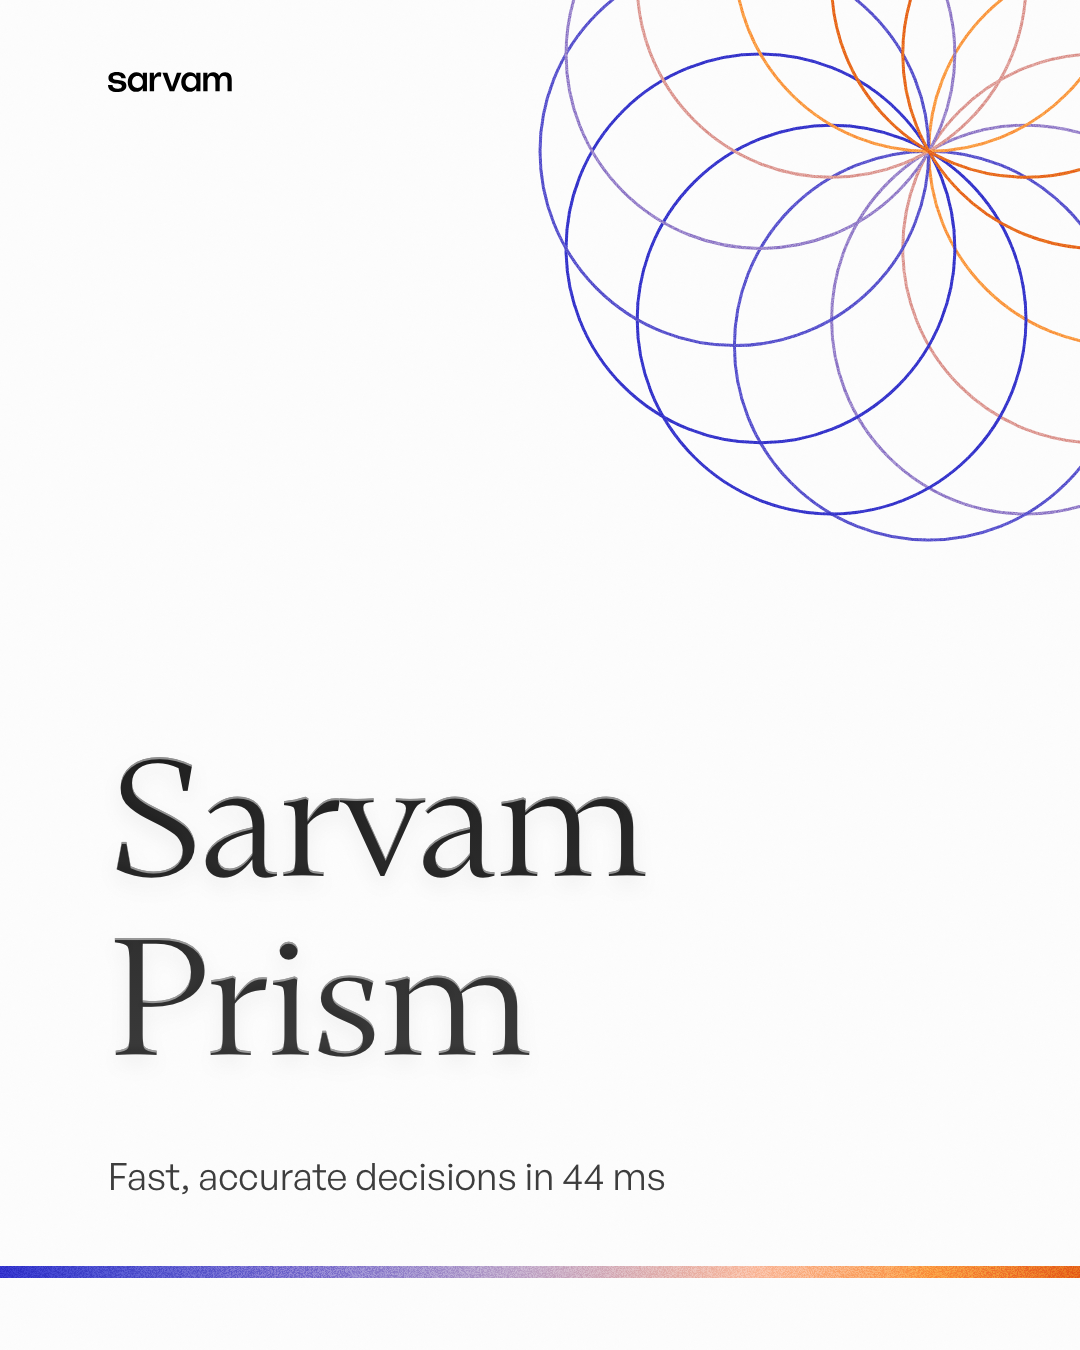
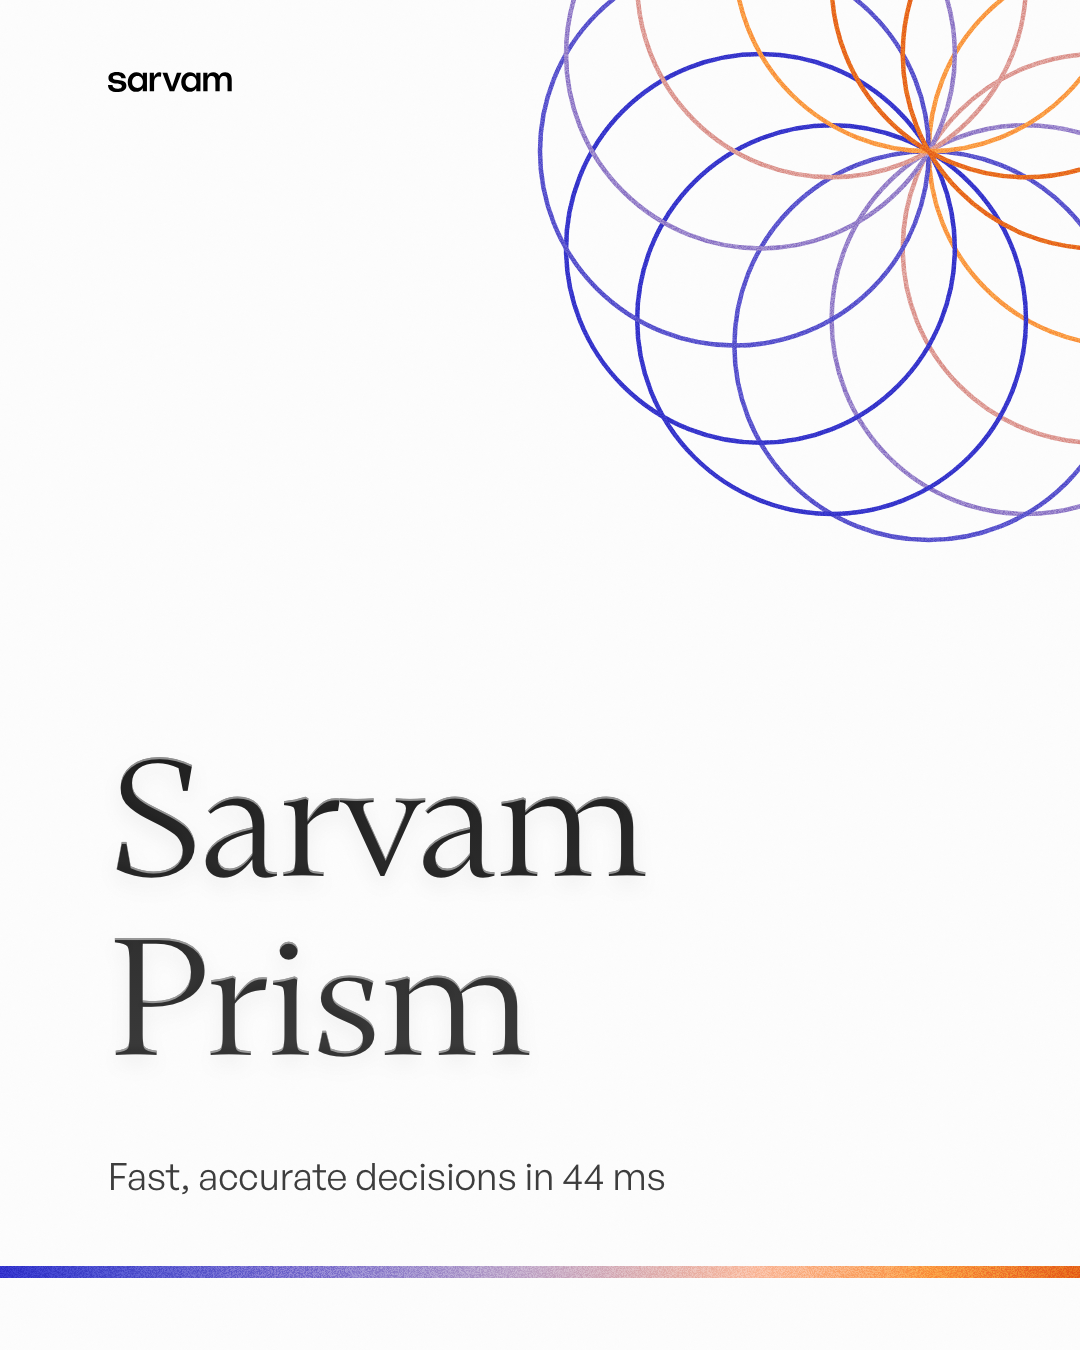
Spectrum rosettes: lens, orbits, rings added; thicker stroke (4.5px / 3.5px)

diff --git a/src/components/sarvam/composer.tsx b/src/components/sarvam/composer.tsx
@@ -31,7 +31,7 @@ export type BannerSpec = {
   logo?: "wordmark" | "logomark";  // logomark = the official lotus symbol, used alone (logo.md: never beside the wordmark)
   card?: "plan" | "research" | "review";   // product moment shown inside the device (split / stacked only); arch-window shows it through the arch
   icon?: EmblemIcon;               // emblem device: the one object that stands for the subject
-  rosette?: "circles" | "lobes";   // spectrum device: the corner rosette (circles = the logomark's own construction)
+  rosette?: "circles" | "lobes" | "lens" | "orbits" | "rings";   // spectrum device: the corner rosette (circles = the logomark's own construction)
 };
 /** Emblem icons: Nucleo Core outline only (components.md §3). One object per idea. */
 export const EMBLEM_ICONS = {
@@ -324,29 +324,47 @@ function spectrumAt(t: number) {
 }
 /** Spectrum line: one thin, hard-edged strip of the brand spectrum across a calm canvas, like light through a prism.
  *  The top-right corner holds a rosette built the way Sarvam's logomark is built: ONE element repeated around a centre
- *  (identical shape, identical line: 3px Meta / 2.5px LinkedIn, even rotation), each copy one hue of the spectrum, cropped by the corner. */
+ *  (identical shape, identical line: 4.5px Meta / 3.5px LinkedIn, even rotation), each copy one hue of the spectrum, cropped by the corner. */
+type Rosette = NonNullable<BannerSpec["rosette"]>;
 function spectrumDevice(spec: BannerSpec, F: Frame, _id: string, land: boolean): DeviceOut {
   const h = land ? 8 : 12, y = F.H - F.M - h;
   const kind = spec.rosette ?? "circles";
   const R = land ? F.H * 0.38 : F.W * 0.36;                     // rosette radius (the whole rosette spans 2R)
   const cx = F.W - (land ? F.H * 0.16 : F.W * 0.14), cy = land ? F.H * 0.16 : F.W * 0.14;
-  const n = 12;
+  const ROSETTE_N: Record<Rosette, number> = { circles: 12, lobes: 12, lens: 12, orbits: 6, rings: 6 };
+  const n = ROSETTE_N[kind];
   const els = Array.from({ length: n }, (_, i) => {
     // hue by direction, mirror-symmetric: copies facing into the canvas (lower-left) are indigo, copies facing the corner (upper-right) orange
-    const a = (360 / n) * i, c = spectrumAt((1 - Math.cos(((a - 135) * Math.PI) / 180)) / 2);
-    if (kind === "circles") {
-      // the logomark's construction: equal circles whose centres sit on a ring, each passing through the centre
-      const r = R / 2, rad = (a * Math.PI) / 180;
-      return <circle key={i} cx={cx + Math.cos(rad) * r} cy={cy + Math.sin(rad) * r} r={r} stroke={c} />;
+    const a = (360 / n) * i, rad = (a * Math.PI) / 180;
+    const c = spectrumAt(kind === "rings" ? i / (n - 1) : (1 - Math.cos(((a - 135) * Math.PI) / 180)) / 2);
+    switch (kind) {
+      case "circles": {
+        // the logomark's construction: equal circles whose centres sit on a ring, each passing through the centre
+        const r = R / 2;
+        return <circle key={i} cx={cx + Math.cos(rad) * r} cy={cy + Math.sin(rad) * r} r={r} stroke={c} />;
+      }
+      case "lens": {
+        // vesica petals: equal lenses from the centre outward (a lotus drawn with two arcs each)
+        const L = R, w = R * 0.26;
+        return <path key={i} d={`M0 0 Q${w} ${-L / 2} 0 ${-L} Q${-w} ${-L / 2} 0 0 Z`} transform={`translate(${cx} ${cy}) rotate(${a})`} stroke={c} />;
+      }
+      case "orbits":
+        // equal ellipses sharing the centre, each turned by 180/n: a calm spirograph
+        return <ellipse key={i} cx={cx} cy={cy} rx={R} ry={R * 0.36} transform={`rotate(${(180 / n) * i} ${cx} ${cy})`} stroke={c} />;
+      case "rings":
+        // concentric circles at an even step, hue stepping outward through the spectrum
+        return <circle key={i} cx={cx} cy={cy} r={R * (0.28 + (0.72 * i) / (n - 1))} stroke={c} />;
+      default: {
+        // lobes: equal rounded squares set out on a ring and turned to face the centre (the logomark's petals)
+        const sd = R * 0.62, px = cx + Math.cos(rad) * R * 0.5, py = cy + Math.sin(rad) * R * 0.5;
+        return <rect key={i} x={px - sd / 2} y={py - sd / 2} width={sd} height={sd} rx={sd * 0.3} transform={`rotate(${a + 45} ${px} ${py})`} stroke={c} />;
+      }
     }
-    // lobes: equal rounded squares set out on a ring and turned to face the centre (the logomark's petals)
-    const sd = R * 0.62, rad = (a * Math.PI) / 180, px = cx + Math.cos(rad) * R * 0.5, py = cy + Math.sin(rad) * R * 0.5;
-    return <rect key={i} x={px - sd / 2} y={py - sd / 2} width={sd} height={sd} rx={sd * 0.3} transform={`rotate(${a + 45} ${px} ${py})`} stroke={c} />;
   });
   const layer = (
     <>
       <svg width={F.W} height={F.H} style={{ position: "absolute", inset: 0 }} aria-hidden>
-        <g fill="none" strokeWidth={land ? 2.5 : 3} strokeLinejoin="round">{els}</g>
+        <g fill="none" strokeWidth={land ? 3.5 : 4.5} strokeLinejoin="round" strokeLinecap="round">{els}</g>
       </svg>
       <div aria-hidden style={{ position: "absolute", left: 0, right: 0, top: y, height: h, background: SPECTRUM }} />
     </>

diff --git a/src/app/banners/make/Maker.tsx b/src/app/banners/make/Maker.tsx
@@ -46,7 +46,7 @@ export default function Maker() {
         <Seg name="Layout" value={spec.layout ?? "centered"} options={["centered", "split", "stacked"] as const} onChange={(v) => set({ layout: v })} />
         <label className="mk-field"><span>Partner (lockup next to the wordmark, optional)</span>
           <input value={spec.partner ?? ""} placeholder="e.g. Supernova" onChange={(e) => set({ partner: e.target.value || undefined })} /></label>
-        {spec.device === "spectrum" && <Seg name="Corner rosette" value={spec.rosette ?? "circles"} options={["circles", "lobes"] as const} onChange={(v) => set({ rosette: v })} />}
+        {spec.device === "spectrum" && <Seg name="Corner rosette" value={spec.rosette ?? "circles"} options={["circles", "lens", "orbits", "rings", "lobes"] as const} onChange={(v) => set({ rosette: v })} />}
         {spec.device === "emblem" && <Seg name="Emblem object" value={spec.icon ?? "sparkle"} options={Object.keys(EMBLEM_ICONS) as EmblemIcon[]} onChange={(v) => set({ icon: v })} />}
         {((spec.layout ?? "centered") !== "centered" || spec.device === "arch-window") && <Seg name={spec.device === "arch-window" ? "Product through the arch" : "Product card inside the device"} value={spec.card ?? "none"} options={["none", "plan", "research", "review"] as const} onChange={(v) => set({ card: v === "none" ? undefined : v })} />}
         <Seg name="Headline style" value={spec.titleStyle} options={["serif", "sans"] as const} onChange={(v) => set({ titleStyle: v })} />

diff --git a/design-system/design.md b/design-system/design.md
@@ -1989,7 +1989,7 @@ Every Sarvam banner is a **composition of a few choices + at most two lines of t
    | `gateway-window` | 3 carved layers opening onto warm cream light | Funding, big announcements |
    | `gateway-echo` | 5 thin outline gateways rising from the bottom | Announcements |
       | `gloss` | Mirrored cluster of glossy studio shapes | Events, programs, community |
-   | `spectrum` | **Our taste** `[addition]`: a calm off-white canvas, one thin hard-edged strip of the brand spectrum (indigo → orange) near the bottom, and a **rosette** in the top-right corner, cropped by the corner. It is built the way Sarvam's logomark is built: **one element repeated around a centre** (12 equal circles whose centres sit on a ring and which all pass through the centre; or `rosette: "lobes"`, 12 equal rounded petals). Every copy is the same line (3px Meta, 2.5px LinkedIn), and each one takes a hue of the spectrum by its direction: indigo toward the canvas, orange toward the corner. Text is set left and low (`editorial` layout). | Model launches and announcements that should feel calm and precise |
+   | `spectrum` | **Our taste** `[addition]`: a calm off-white canvas, one thin hard-edged strip of the brand spectrum (indigo → orange) near the bottom, and a **rosette** in the top-right corner, cropped by the corner. It is built the way Sarvam's logomark is built: **one element repeated around a centre** `rosette`: **circles** (default: 12 equal circles through one centre, the logomark's construction), **lens** (12 vesica petals, a lotus), **orbits** (6 equal ellipses turned by 30°), **rings** (6 concentric circles, the hue stepping outward), **lobes** (12 rounded petals). Every copy is the same line (4.5px Meta, 3.5px LinkedIn), and each one takes a hue of the spectrum by its direction: indigo toward the canvas, orange toward the corner. Text is set left and low (`editorial` layout). | Model launches and announcements that should feel calm and precise |
    | `emblem` | One frosted, bevelled medallion with **one Nucleo icon engraved** in it, echo rings on true offsets. Text sits beside it (split on LinkedIn, stacked on Meta). `icon`: shield, plug, check, calendar, search, globe, inbox, megaphone, target, chart, book, sparkle, person | A capability you can name as an object |
    | `arch-window` | The gateway as a **window onto the real product**: a recessed arch (Mihrab / Domed door) standing on the bottom edge, light inside, one frozen product mock (`card`) seen through it. Text beside it | A product moment you can see |
    | `script-mandala` | **"Sarvam" in nine Indian scripts**, set in rings around a glowing disc. Meta: the headline sits in the disc. LinkedIn: the logomark sits in the disc and the text sits left (the wordmark is dropped; never both) `[addition]` | India, languages, mission, sovereignty, people |

diff --git a/design-system/recipes/banner-builder.md b/design-system/recipes/banner-builder.md
@@ -65,7 +65,7 @@ Every Sarvam banner is a **composition of a few choices + at most two lines of t
    | `gateway-window` | 3 carved layers opening onto warm cream light | Funding, big announcements |
    | `gateway-echo` | 5 thin outline gateways rising from the bottom | Announcements |
       | `gloss` | Mirrored cluster of glossy studio shapes | Events, programs, community |
-   | `spectrum` | **Our taste** `[addition]`: a calm off-white canvas, one thin hard-edged strip of the brand spectrum (indigo → orange) near the bottom, and a **rosette** in the top-right corner, cropped by the corner. It is built the way Sarvam's logomark is built: **one element repeated around a centre** (12 equal circles whose centres sit on a ring and which all pass through the centre; or `rosette: "lobes"`, 12 equal rounded petals). Every copy is the same line (3px Meta, 2.5px LinkedIn), and each one takes a hue of the spectrum by its direction: indigo toward the canvas, orange toward the corner. Text is set left and low (`editorial` layout). | Model launches and announcements that should feel calm and precise |
+   | `spectrum` | **Our taste** `[addition]`: a calm off-white canvas, one thin hard-edged strip of the brand spectrum (indigo → orange) near the bottom, and a **rosette** in the top-right corner, cropped by the corner. It is built the way Sarvam's logomark is built: **one element repeated around a centre** `rosette`: **circles** (default: 12 equal circles through one centre, the logomark's construction), **lens** (12 vesica petals, a lotus), **orbits** (6 equal ellipses turned by 30°), **rings** (6 concentric circles, the hue stepping outward), **lobes** (12 rounded petals). Every copy is the same line (4.5px Meta, 3.5px LinkedIn), and each one takes a hue of the spectrum by its direction: indigo toward the canvas, orange toward the corner. Text is set left and low (`editorial` layout). | Model launches and announcements that should feel calm and precise |
    | `emblem` | One frosted, bevelled medallion with **one Nucleo icon engraved** in it, echo rings on true offsets. Text sits beside it (split on LinkedIn, stacked on Meta). `icon`: shield, plug, check, calendar, search, globe, inbox, megaphone, target, chart, book, sparkle, person | A capability you can name as an object |
    | `arch-window` | The gateway as a **window onto the real product**: a recessed arch (Mihrab / Domed door) standing on the bottom edge, light inside, one frozen product mock (`card`) seen through it. Text beside it | A product moment you can see |
    | `script-mandala` | **"Sarvam" in nine Indian scripts**, set in rings around a glowing disc. Meta: the headline sits in the disc. LinkedIn: the logomark sits in the disc and the text sits left (the wordmark is dropped; never both) `[addition]` | India, languages, mission, sovereignty, people |

diff --git a/process/prompt-log.md b/process/prompt-log.md
@@ -408,3 +408,14 @@ Entry format:
 ## 2026-11-04 — Rosette stroke thicker
 - Prompt (verbatim): "great, loved it, but with a somewhat thicker pattern, thicker stroke"
 - Rosette line 1.5px → 3px (Meta) / 2.5px (LinkedIn): about 2× the old weight, so it holds at phone size (~375px wide: 3px reads as ~1px). QA PASS, re-exported.
+
+## 2026-11-04 — Rosette set: more patterns, thicker stroke
+- Prompt (verbatim): "a different set of patterns and thicker strokes"
+- Stroke 3 → 4.5px (Meta) / 2.5 → 3.5px (LinkedIn), with round caps.
+- New rosettes, all following the one-element-by-rotation rule:
+  - **lens:** 12 vesica petals, a lotus
+  - **orbits:** 6 ellipses turned 30°
+  - **rings:** 6 concentric circles; the hue steps outward
+  - Joining the existing circles and lobes.
+- Tried and dropped **arches** (Mihrab gateway repeated by rotation). Even after moving them onto an inner ring, the gateway's long straight sides read as boxy door frames, not a rosette.
+- Sheet: `process/screens/banners-simple/rosette-set-thick.png`. The prism-spectrum banner stays on circles. QA PASS, re-exported. The builder's "Corner rosette" control lists all five.
